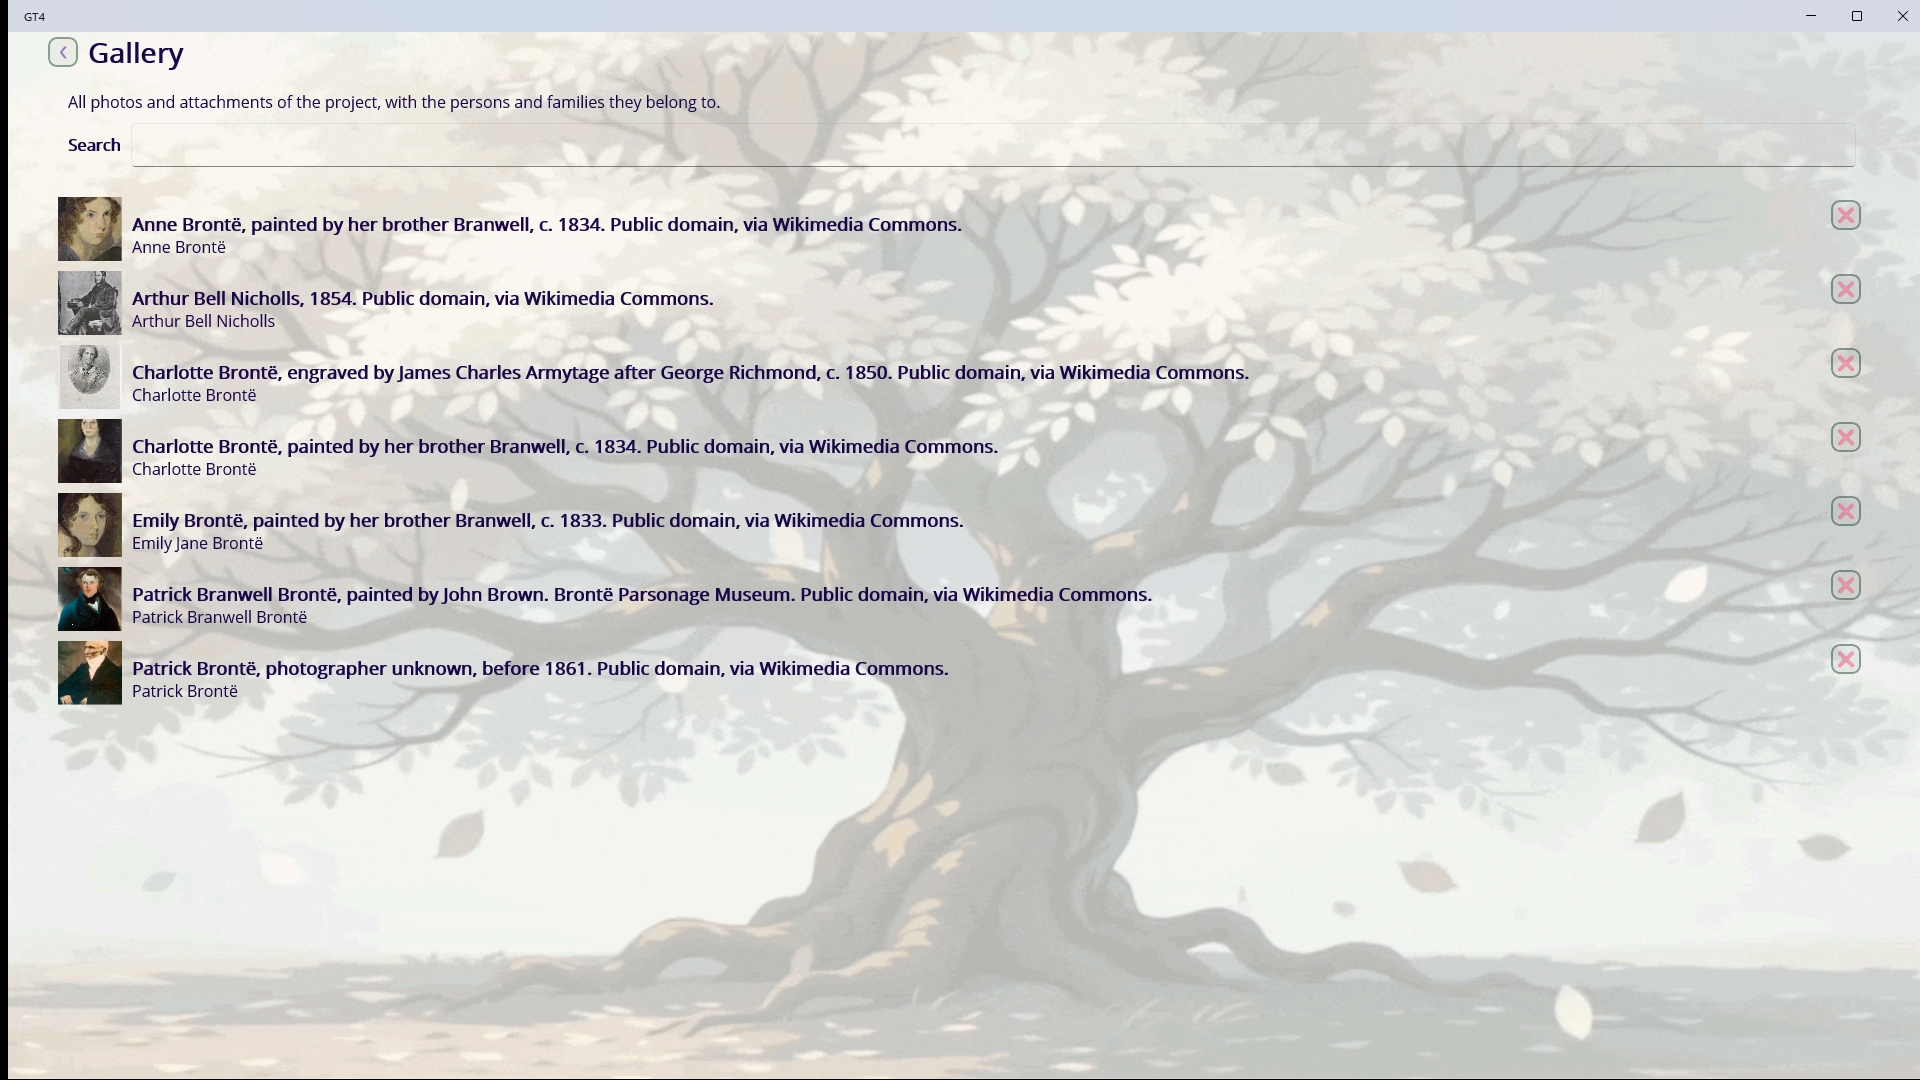
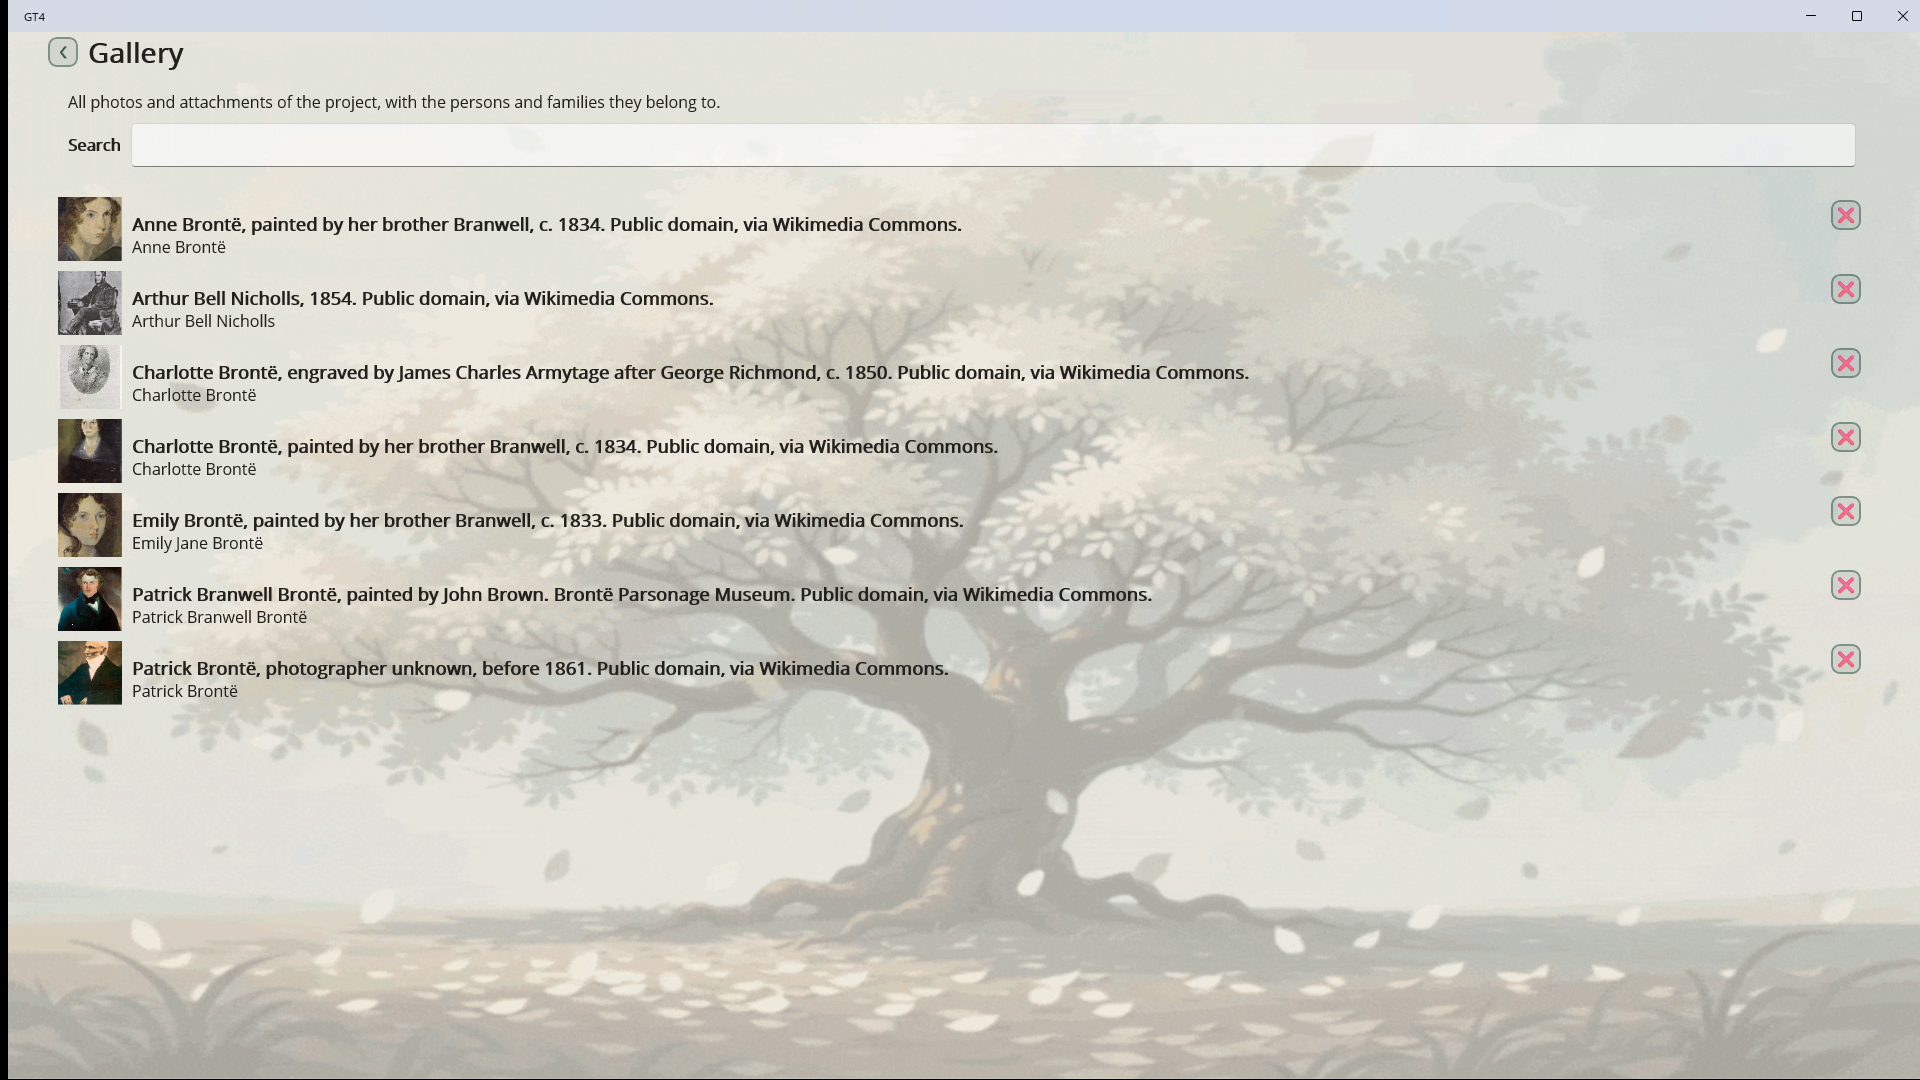
(*) Re-shoot the store screenshots at the shipped release
All thirteen were captured at 7816ec9d, before #358 and #360. Those two finished
the palette -- the neutral ramp went warm across all eight steps, and the tab
strips moved into TabItemView -- so every shot was off, and 04-person and
05-biography, Partner Center slots 2 and 3, showed a solid green pill with white
text where the app now draws a pale fill with dark ink and an outline.

Shot from v4.0.652.0 (24aa0264), the tag the submitted MSIX was built from, so
the version the home screen prints is the version on the package. The build had
to come from a clean obj: the code is identical between that tag and the branch
tip, so an incremental build would have baked the wrong number in -- the same
trap release-and-submission.md already records for the MSIX manifest.

Two shots needed a non-default setting, and both are now written down. The
family tree wants the Relatives toggle on, or Charlotte -- who had no children
-- reduces the lead screenshot to two parents and four grandparents. The date
calendar wants April rather than today, which is where the month-only-date
section actually appears.

capture.ps1 now places the window at the origin instead of (40,40). SetCursorPos
clamps to the desktop, so every pixel of offset was a row at the bottom of a
taller-than-1080p window that no click could reach, footer buttons included --
and the click still reported success. The recipe also gains the traps this run
[…]

diff --git a/doc/store/capture/README.md b/doc/store/capture/README.md
@@ -28,6 +28,13 @@ captured image starts at the window origin, so image (x, y) maps to screen
 (windowRect.Left + x, windowRect.Top + y). Using the DWM frame origin here puts
 every click 7px right of where you aimed.
 
+**The window is placed at (0,0), and that is not cosmetic.** It is taller than a
+1080p screen, and `click.ps1` aims via `SetCursorPos`, which silently clamps to
+the desktop. Any offset pushes the same number of rows at the bottom out of
+reach — at (40,40) nothing below image y=1039 can be clicked, which includes the
+footer button every list page ends with. The click still reports success; it
+just lands somewhere else.
+
 ## Traps
 
 - **Release build only.** `PersonInfoView.CommonName` appends `" (Id: N)"` to
@@ -44,6 +51,13 @@ every click 7px right of where you aimed.
 - **A `CollectionView` row that is already selected does not re-navigate** —
   selection, not tap, is what drives it. Select a different row first, then the
   one you want.
+- **The person picker needs its footer button.** Clicking a row only selects it;
+  the footer changes from *Cancel* to *Ok*, and the choice is not committed
+  until that is pressed. Clicking the next *Choose…* instead leaves you in the
+  same picker with the wrong person selected.
+- **The chevrons flanking a person's photo move between people, not photos.**
+  They look like a carousel. Use the breadcrumb strip above the summary to get
+  back, or the shot ends up on a different person than the caption claims.
 - **The side-menu icons are unlabelled**, so their meaning comes from the order
   the page declares its `PageMenuItem`s in. Read the page's XAML, don't guess.
 - **Settings live in `%APPDATA%\{067F098F-…}\.config\appconfig.json`** — language,
@@ -59,10 +73,17 @@ drive, and the built-in demo tree is only offered when the project list is
 ```powershell
 dotnet build Tools\GT4.Tools.RelativesCli\GT4.Tools.RelativesCli.csproj -c Release
 Copy-Item UI\App\Resources\Raw\demo.ged "$env:TEMP\Brontë Family (Demo).ged"
+$root = Join-Path ([Environment]::GetFolderPath('MyDocuments')) 'GT4\_shots'
 dotnet Tools\GT4.Tools.RelativesCli\bin\Release\net10.0\GT4.Tools.RelativesCli.dll `
   --gedcom "$env:TEMP\Brontë Family (Demo).ged" `
-  --out "$env:USERPROFILE\Documents\GT4\_shots\Brontë Family (Demo).gt4" find Charlotte
+  --out "$root\Brontë Family (Demo).gt4" find Charlotte
 ```
+
+Resolve `MyDocuments` rather than assuming `$env:USERPROFILE\Documents`: that is
+what `Storage.ProjectsRoot` does, and with OneDrive's folder backup on it lands
+under `$env:USERPROFILE\OneDrive\Documents` instead. Writing to the literal path
+puts the project somewhere the app never scans, and the list simply comes up
+without it. The `_shots` subfolder is fine either way — `ProjectList` recurses.
 
 **The CLI does not persist the project name**, so the list shows a
 `DataException: There is no name stored in the project` card instead of a
@@ -73,6 +94,15 @@ project. Write the name yourself before opening it — `Metadata` is
 INSERT OR REPLACE INTO Metadata (Id, Data) VALUES ('name', 'Brontë Family (Demo)');
 ```
 
+**Write it as TEXT, not as bytes.** The column says `BLOB` and SQLite will store
+whatever you hand it, but `TableMetadata.GetAsync` casts the value straight to
+`string` — a UTF-8 `byte[]` gets you an `InvalidCastException` card in the
+project list where the project should be. The SQL literal above is right; a
+parameter bound to `Encoding.UTF8.GetBytes(name)` is not.
+
+Fixing the row is not enough on its own: the project list caches what it read,
+and its refresh button does not re-read the name. Restart the app.
+
 Any SQLite client will do. From PowerShell, `Microsoft.Data.Sqlite.dll` plus the
 `SQLitePCLRaw.*` assemblies from the CLI's output folder work, but the native
 `e_sqlite3.dll` is not copied there — take it from a test project's output
@@ -80,4 +110,7 @@ Any SQLite client will do. From PowerShell, `Microsoft.Data.Sqlite.dll` plus the
 one directory, `cd` into it, and call `[SQLitePCL.Batteries_V2]::Init()` first.
 
 Delete the project directory and its `%APPDATA%\{…}\.cache\<name>\` folder
-afterwards.
+afterwards, where `<name>` is the project's *file* name, not the name you wrote
+into `Metadata`. Leave the sibling cache folders alone: the app touches every
+one of them at startup while sweeping revisions, so a recent write time is not a
+sign one belongs to this run.

diff --git a/doc/store/screenshots/README.md b/doc/store/screenshots/README.md
@@ -1,8 +1,10 @@
 # Store screenshots
 
 Thirteen 1920×1080 PNGs, captured from the **Release** Windows head
-(`UI/App/AppWinOnly.csproj`) at commit `7816ec9d`, in English, light theme, 100%
-text scale. The data is the bundled Brontë demo tree
+(`UI/App/AppWinOnly.csproj`) at `v4.0.652.0` (commit `24aa0264`) — the tag the
+shipped MSIX was built from, so the version the app prints on the home screen,
+`4.0.652.0`, is the one on the package being submitted. English, 100% text
+scale; light theme except `12` and `13`. The data is the bundled Brontë demo tree
 (`UI/App/Resources/Raw/demo.ged`) — every portrait in it is a public-domain
 Wikimedia image, so nothing here is anyone's private research.
 
@@ -31,40 +33,35 @@ below are spares.
 | — | `11-settings.png` | *(spare)* Text size, theme and date formats are yours to set |
 | — | `12-home-dark.png` | *(spare)* Home in the dark palette |
 
-## The whole set predates the shipping palette
+## Choices behind these shots
 
-Re-shoot all thirteen before submitting any of them; do not pick survivors out
-of this set. Two PRs have landed on the palette since `7816ec9d` — #358 and
-#360 — and #360 re-tinted the entire neutral ramp warm (`Gray100` `#E1E1E1` →
-`#F1EEE7`, and so on down to `Gray950`), which reaches the text and borders of
-every screen.
+Two of them are not what the app offers by default, and a re-shoot that skips
+them comes out visibly worse:
 
-Two of the changes are large enough that a reader comparing an old shot to the
-app would notice them first:
+- **`06-family-tree.png` and `13-family-tree-dark.png` have the *Relatives*
+  toggle on.** Off — the default — Charlotte's tree is her two parents and four
+  grandparents, because she had no children, and the lead Store screenshot ends
+  up looking like the app cannot draw a family. On, it shows all six Brontë
+  siblings and reads like a family tree.
+- **`10-date-calendar.png` is April, not the current month.** The calendar opens
+  on today, and most months of the demo tree are near-empty. April carries four
+  dated entries plus the *"Sometime in April — exact day not recorded"* section,
+  which is the only place the month-only-date handling is visible.
 
-- **The tab strips**, in `04-person.png` and `05-biography.png` — Partner
-  Center slots 2 and 3. Both show the strip `PersonPage` declared inline, whose
-  active tab is a solid `Primary` pill with white text. #360 moved it into
-  `UI/App/Components/TabItemView.xaml`, where the active tab is a pale
-  `ControlFillHover` fill with dark `PrimaryDarkText` ink and a `Primary`
-  outline — near enough an inversion.
-- **The dark-theme shots.** `PrimaryDark` was the stock MAUI purple; it is the
-  app's green now (`#7FC0A4`), so `12-home-dark.png` and
-  `13-family-tree-dark.png` show a button colour the app no longer has.
+`09-kinship-finder.png` pairs Hugh Brunty with his granddaughter Charlotte —
+far enough apart to show a connecting chain rather than a one-line answer, and
+the demo tree's longest blood relationship.
 
-The light-theme `Accent` `#8B6F4E` did *not* move, so `07-statistics.png`'s
-decade bars are the one prominent block of colour here that still matches.
+## Still worth fixing
 
-## Also worth checking when you re-shoot
-
-- **`01-home.png` and `12-home-dark.png` print the version on screen**, centred
-  under the title. They read `(4.0.0.645)`, from the layout that shipped before
-  the Store fix moved the commit count into the build field. A re-shoot picks
-  the current number up on its own — just confirm it looks like `4.0.<count>.0`.
 - **`08-gallery.png`** is honest but text-heavy: every row is a Wikimedia
   attribution line, because that is what the demo file's `TITL` tags carry. It
   reads more like a credits list than a gallery. Consider dropping it, or
   re-shooting the gallery against a tree with ordinary captions.
+- **`04-person.png` carries two breadcrumbs**, Charlotte and Patrick Branwell,
+  because the shot was taken after visiting both. One would be tidier. Harmless,
+  and arguably shows the navigation history, but worth knowing it was not
+  deliberate.
 
 ## Reproducing the set
 

diff --git a/doc/store/release-and-submission.md b/doc/store/release-and-submission.md
@@ -196,12 +196,12 @@ both files together when behaviour changes.
 - **Issue #281** — a GEDCOM export followed by a re-import silently loses family
   photos and attachments (person media survives). The listing copy is worded to
   avoid promising otherwise; see the exclusion in `claim-sources.md`.
-- **The screenshots predate the palette** — all thirteen, not only the dark
-  ones. [screenshots/README.md](screenshots/README.md) has what moved and what
-  to watch for when re-shooting. This is the one thing still standing between
-  the release and a submission.
+The screenshots are no longer among these. All thirteen were re-shot at
+`v4.0.652.0`, so the set shows the package being submitted, down to the version
+string on the home screen — see [screenshots/README.md](screenshots/README.md)
+for the two settings a re-shoot has to turn on to match them.
 
-The palette itself needs no inventory here any more. #358 and #360 cleared the
+The palette needs no inventory here any more. #358 and #360 cleared the
 last of the MAUI template colours, and what replaced them is pinned by the
 `*PaletteTests` in `Tests/GT4.UI.App.DeviceTests`: they resolve each token
 against a real `UserAppTheme`, composite it over its ground — the palette is
